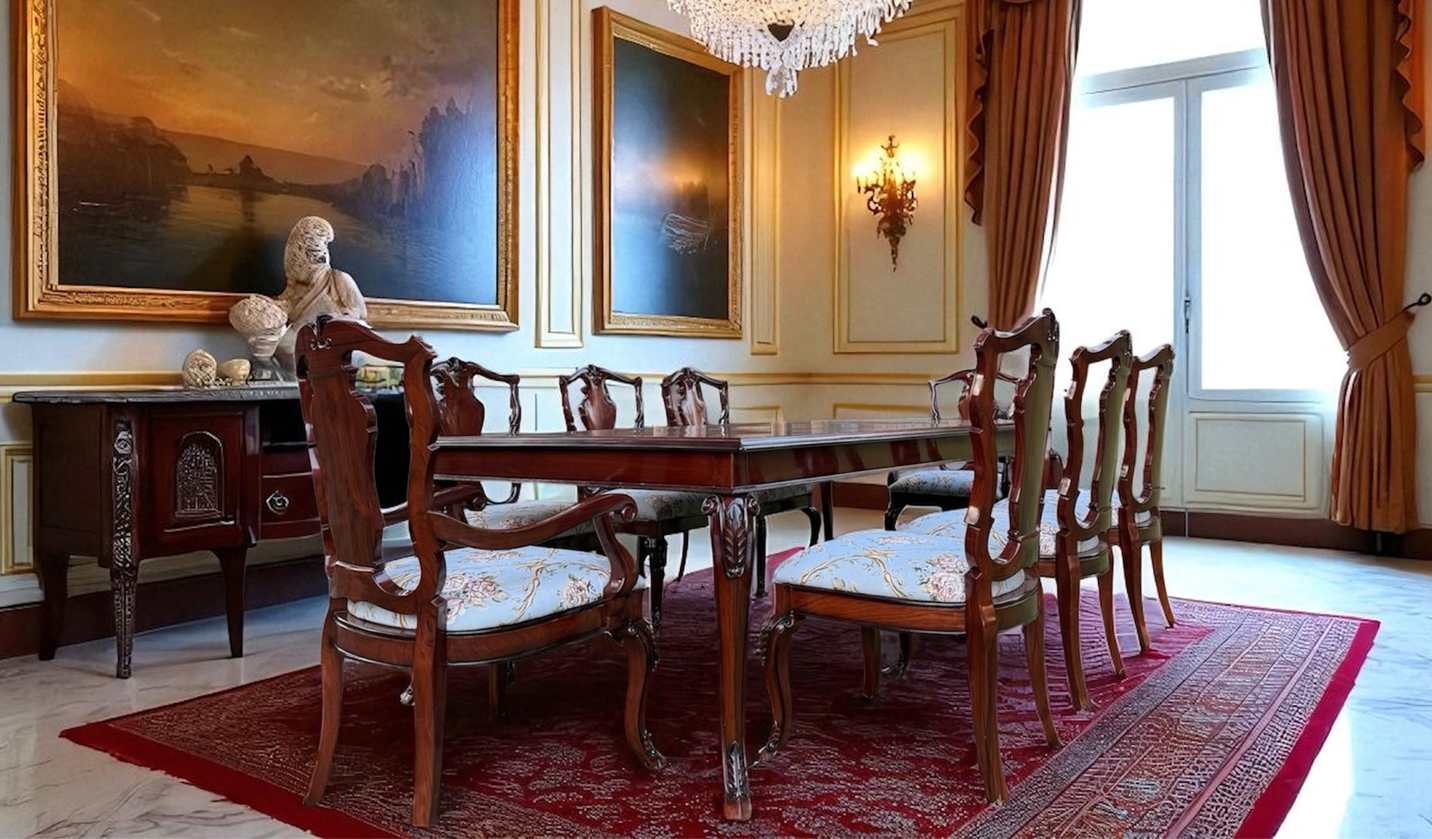
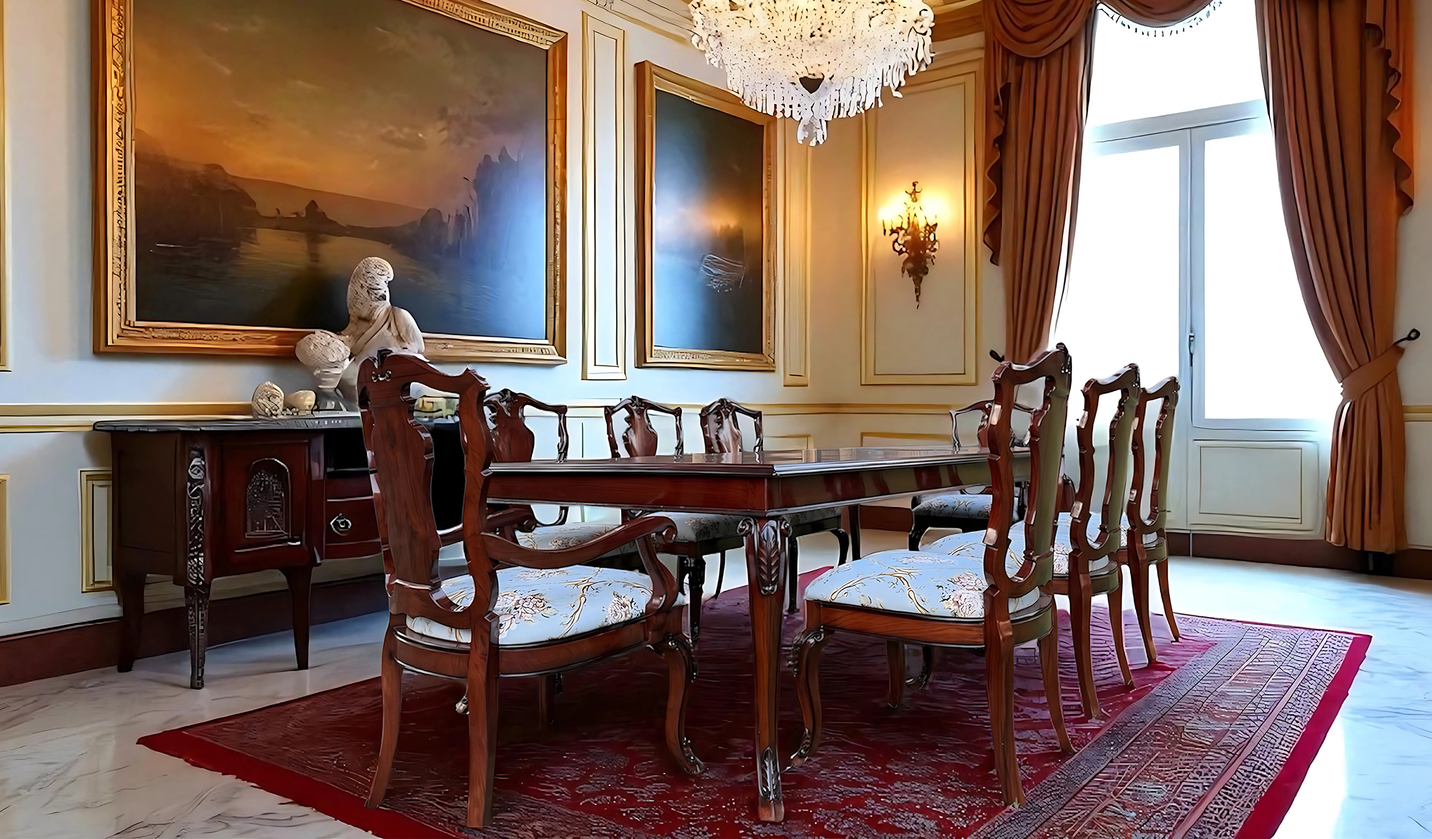
added slider images

diff --git a/index.html b/index.html
@@ -109,7 +109,7 @@
 
 		<div class="slider-item" style="background-image: url(images/bg_3.jpg); background-position: top center;"></div>
 		<div class="slider-item" style="background-image: url(images/bg_5.jpg); background-position: bottom center;"></div>
-		<div class="slider-item" style="background-image: url(images/bg_6.jpg); background-position: bottom center;"></div>
+		<div class="slider-item" style="background-image: url(images/bg_7.jpg); background-position: bottom center;"></div>
 	</section>
 
 	<!-- <section class="ftco-intro">
